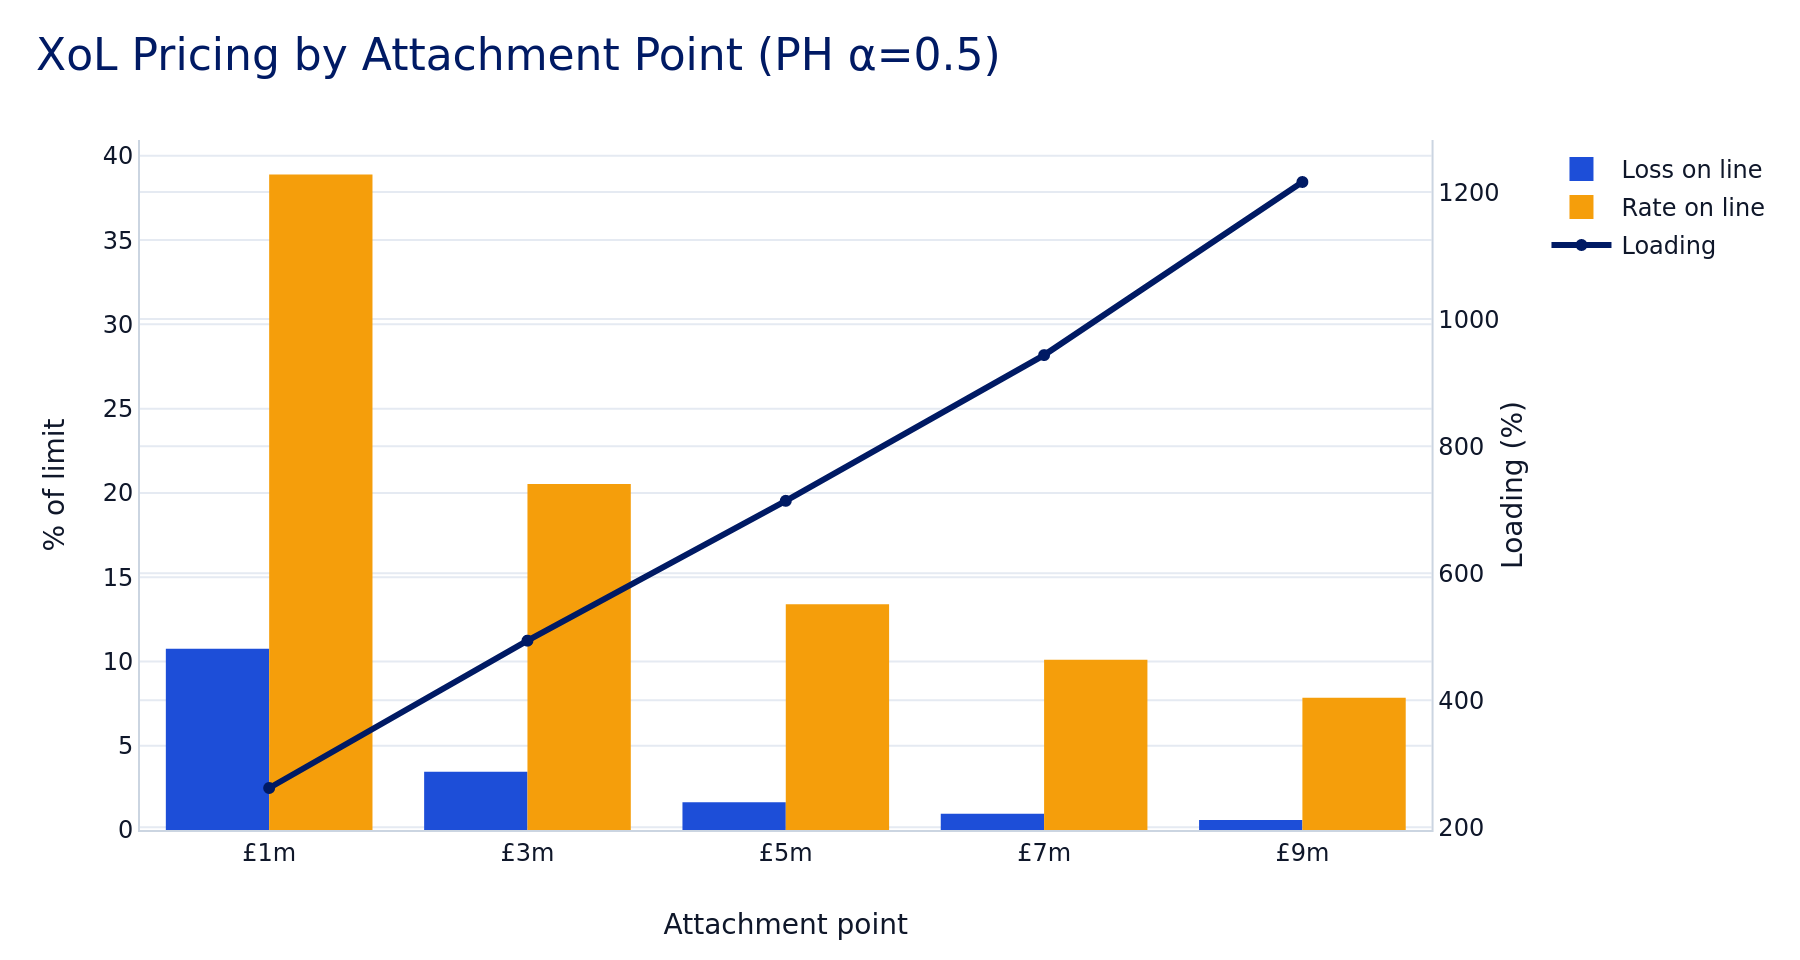
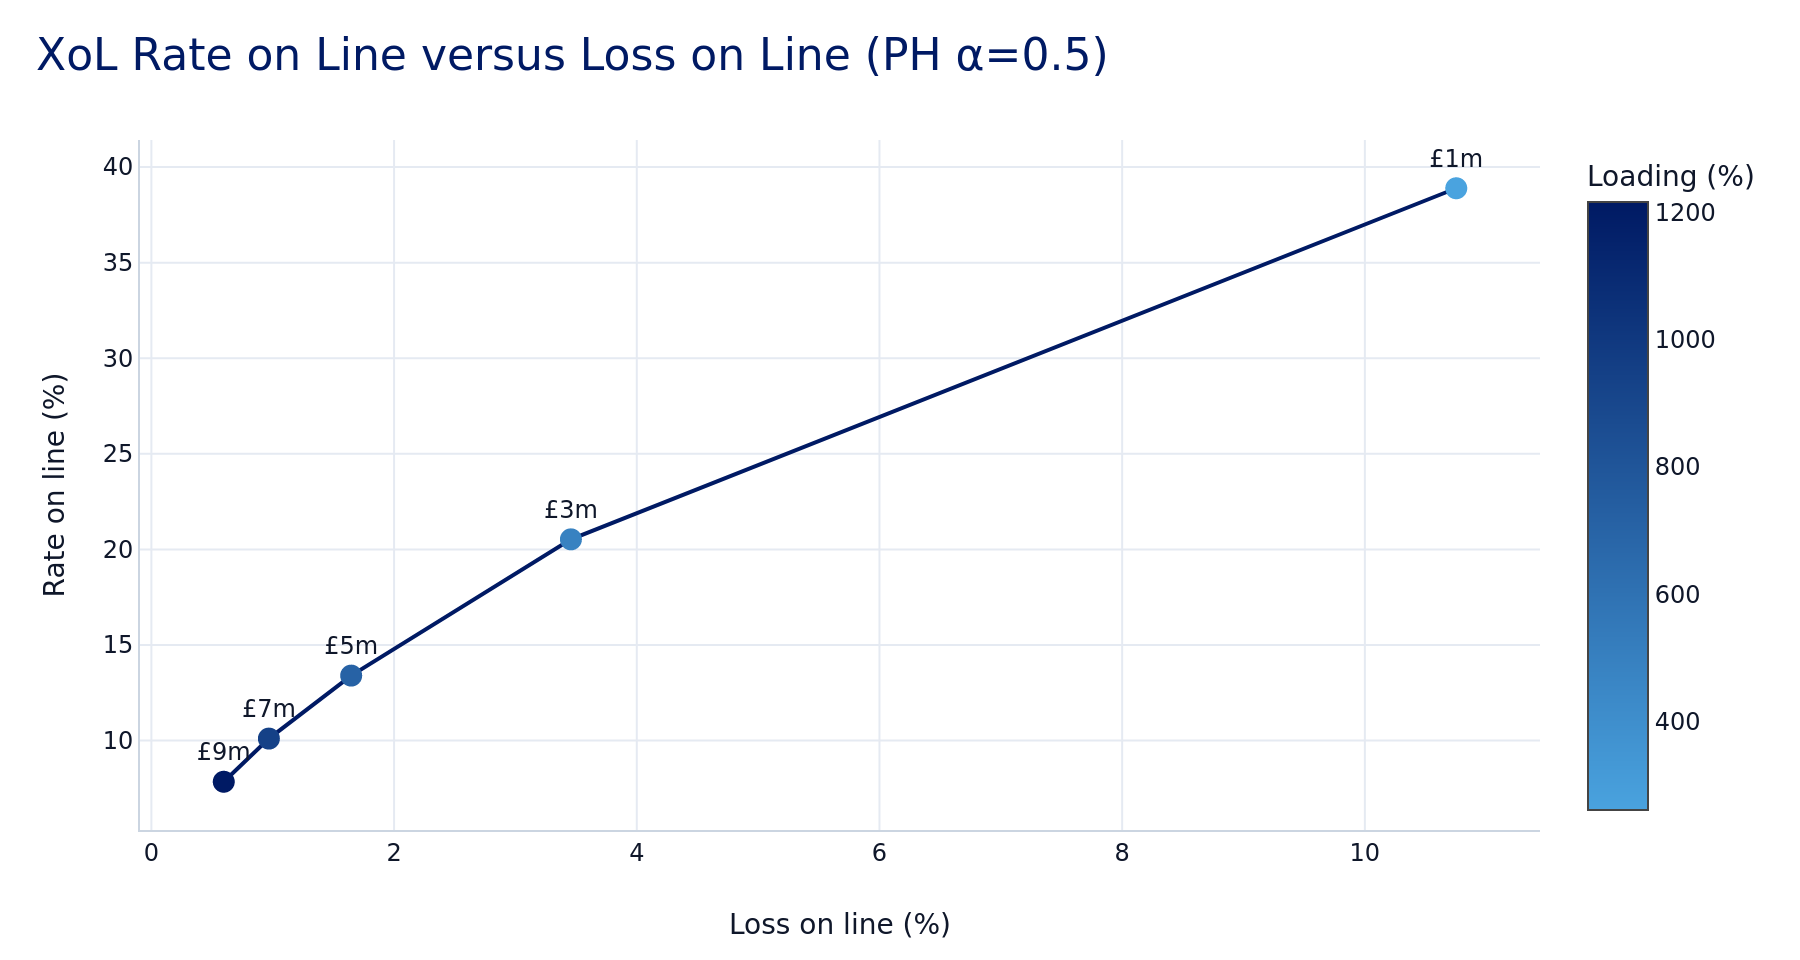
Plot XoL rate against loss on line

diff --git a/docs/tutorials/generate_risk_measure_charts.py b/docs/tutorials/generate_risk_measure_charts.py
@@ -137,30 +137,34 @@ def plot_price_curve():
         els.append(rec.mean() / layer.limit * 100)
         prices.append(rm.value / layer.limit * 100)
         loadings.append((rm.value / rec.mean() - 1) * 100)
-    fig = make_subplots(specs=[[{"secondary_y": True}]])
-    x = np.arange(len(excesses))
     labels = [f"£{e:.0f}m" for e in excesses]
-    fig.add_bar(x=labels, y=els, name="Loss on line", marker_color=PROTEUS_BLUE)
-    fig.add_bar(x=labels, y=prices, name="Rate on line", marker_color=PROTEUS_ORANGE)
+    order = np.argsort(els)
+    fig = go.Figure()
     fig.add_scatter(
-        x=labels,
-        y=loadings,
-        name="Loading",
-        mode="lines+markers",
-        line={"color": PROTEUS_NAVY, "width": 3},
-        marker={"color": PROTEUS_NAVY},
-        secondary_y=True,
+        x=np.array(els)[order],
+        y=np.array(prices)[order],
+        text=np.array(labels)[order],
+        customdata=np.array(loadings)[order],
+        name="XoL layers",
+        mode="lines+markers+text",
+        textposition="top center",
+        line={"color": PROTEUS_NAVY, "width": 2},
+        marker={
+            "size": 11,
+            "color": np.array(loadings)[order],
+            "colorscale": [[0, PROTEUS_SKY], [1, PROTEUS_NAVY]],
+            "colorbar": {"title": "Loading (%)"},
+        },
+        hovertemplate="Attachment: %{text}<br>Loss on line: %{x:.2f}%<br>Rate on line: %{y:.2f}%<br>Loading: %{customdata:.1f}%<extra></extra>",
     )
     fig.update_layout(
         template="proteus",
-        title="XoL Pricing by Attachment Point (PH α=0.5)",
-        barmode="group",
-        xaxis={"title": "Attachment point"},
+        title="XoL Rate on Line versus Loss on Line (PH α=0.5)",
+        xaxis={"title": "Loss on line (%)"},
+        yaxis={"title": "Rate on line (%)"},
         width=900,
         height=480,
     )
-    fig.update_yaxes(title_text="% of limit", secondary_y=False)
-    fig.update_yaxes(title_text="Loading (%)", secondary_y=True)
     fig.write_image(OUT / "xol_price_curve.png", scale=2)
 
 

diff --git a/docs/tutorials/risk_measures_and_allocation.md b/docs/tutorials/risk_measures_and_allocation.md
@@ -555,7 +555,6 @@ expected loss.
 
 ```python
 import plotly.graph_objects as go
-from plotly.subplots import make_subplots
 
 excesses = [layer.excess / 1e6 for layer in tower.layers]
 els, prices, loadings = [], [], []
@@ -566,41 +565,43 @@ for layer in tower.layers:
     prices.append(rm.value / layer.limit * 100)
     loadings.append((rm.value / rec.mean() - 1) * 100)
 
-fig = make_subplots(specs=[[{"secondary_y": True}]])
-fig.add_trace(go.Bar(
-    x=excesses, y=els, name="Loss on Line %", marker_color="steelblue",
-))
-fig.add_trace(go.Bar(
-    x=excesses, y=prices, name="Rate on Line %", marker_color="coral",
-))
+order = np.argsort(els)
+labels = [f"£{e:.0f}m" for e in excesses]
+fig = go.Figure()
 fig.add_trace(go.Scatter(
-    x=excesses, y=loadings, name="Loading %",
-    mode="lines+markers", line=dict(color="black", width=2),
-), secondary_y=True)
+    x=np.array(els)[order], y=np.array(prices)[order],
+    text=np.array(labels)[order], customdata=np.array(loadings)[order],
+    name="XoL layers", mode="lines+markers+text", textposition="top center",
+    line=dict(color="#001a64", width=2),
+    marker=dict(size=11, color=np.array(loadings)[order],
+                colorscale=[[0, "#4aa3df"], [1, "#001a64"]],
+                colorbar=dict(title="Loading (%)")),
+    hovertemplate=("Attachment: %{text}<br>Loss on line: %{x:.2f}%<br>"
+                   "Rate on line: %{y:.2f}%<br>Loading: %{customdata:.1f}%<extra></extra>"),
+))
 
 fig.update_layout(
-    title="XoL Pricing by Attachment Point (PH α=0.5)",
-    xaxis_title="Attachment Point (£m)",
-    barmode="group",
+    title="XoL Rate on Line versus Loss on Line (PH α=0.5)",
+    xaxis_title="Loss on line (%)",
+    yaxis_title="Rate on line (%)",
 )
-fig.update_yaxes(title_text="% of Limit", secondary_y=False)
-fig.update_yaxes(title_text="Loading %", secondary_y=True)
 fig.show()
 ```
 
 Here is the resulting price curve for the five layers:
 
 ```{figure} xol_price_curve.png
-:alt: Combined bar and line chart showing loss on line, rate on line and loading by XoL attachment point
+:alt: Price curve showing rate on line against loss on line for five XoL layers, coloured by loading
 :width: 100%
 :align: center
 
 XoL price curve by attachment point.
 ```
 
-The chart shows loss on line and rate on line as bars (both
-declining with attachment), and the loading as a line (rising
-steeply). This is the signature pattern of distortion pricing:
+The chart plots rate on line against loss on line. Each labelled point
+is one layer, and its colour indicates the loading. As layers become
+more remote, loss on line falls while rate on line remains relatively
+high. This is the signature pattern of distortion pricing:
 the market charges more per unit of risk for remote layers.
 
 ## Summary
